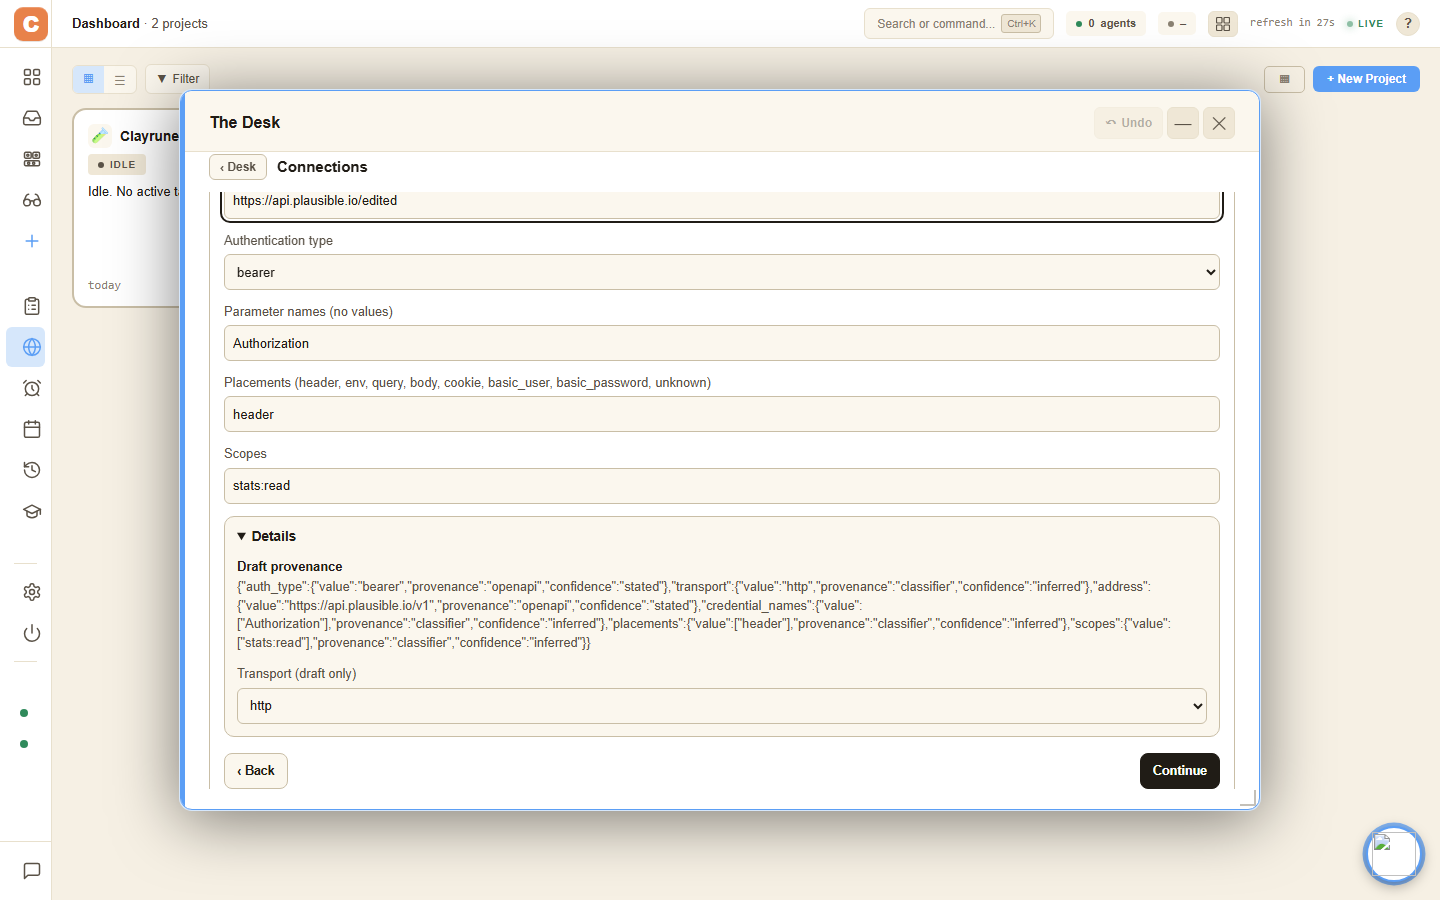
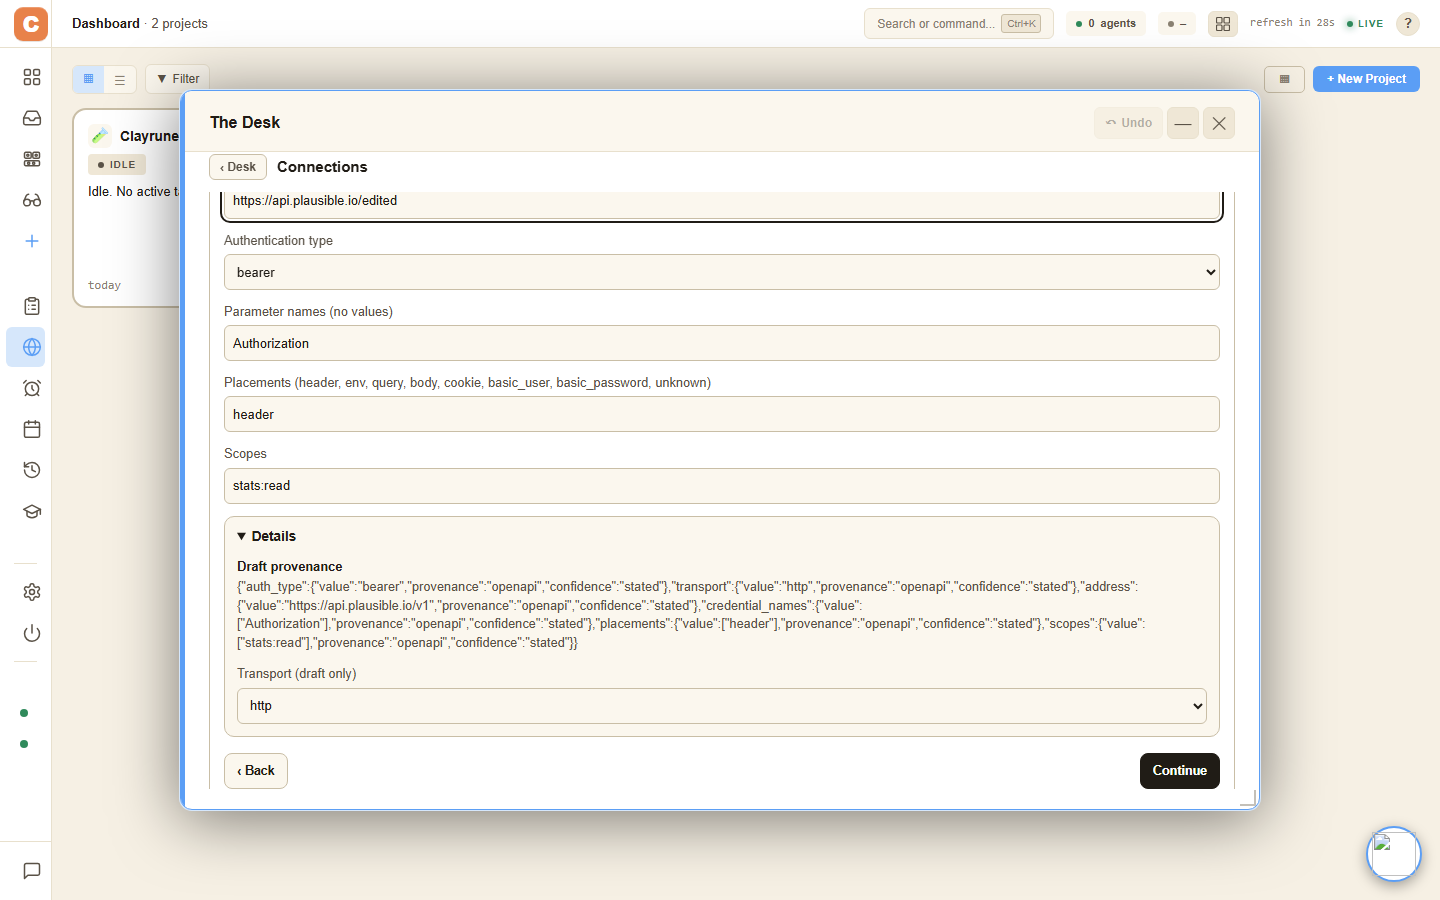
fix(desk): preserve detected reference field provenance

Changed region(s): [[0.2812, 0.6222, 0.8125, 0.7467]]

diff --git a/static/js/desk-v1-connect-reference-step.js b/static/js/desk-v1-connect-reference-step.js
@@ -32,8 +32,9 @@ export function registerReferenceStep(W) {
   }
   function useAlternative(alt) {
     const values = alt.fields || {};
+    const origin = values.auth_type || values.url || values.command || field('unknown', 'classifier', 'uncertain');
     ['auth_type', 'transport'].forEach((k) => {
-      const f = k === 'transport' ? field(alt.transport || 'unknown', 'classifier', 'inferred') : values[k];
+      const f = k === 'transport' ? values.transport || field(alt.transport || 'unknown', origin.provenance, 'inferred') : values[k];
       if (f && ['unknown', 'http', 'stdio', 'streamable_http', 'sse', 'none', 'basic', 'bearer', 'oauth', 'api_key'].includes(f.value)) {
         P[k] = f.value; P.labels[k] = field(f.value, f.provenance, f.confidence);
       }
@@ -48,7 +49,11 @@ export function registerReferenceStep(W) {
     P.credential_names = creds.map((c) => c.name).filter(Boolean).join(' ');
     P.placements = creds.map((c) => c.placement).filter(Boolean).join(' ');
     P.scopes = (alt.scopes || []).slice(0, 20).join(' ');
-    ['credential_names', 'placements', 'scopes'].forEach((k) => { P.labels[k] = field(P[k].split(' ').filter(Boolean), 'classifier', 'inferred'); });
+    const credentialOrigin = creds.length && creds.every((c) => c.provenance === creds[0].provenance) && creds[0].provenance ? creds[0] : origin;
+    ['credential_names', 'placements', 'scopes'].forEach((k) => {
+      const source = k === 'scopes' ? origin : credentialOrigin;
+      P.labels[k] = field(P[k].split(' ').filter(Boolean), source.provenance, source.confidence || 'uncertain');
+    });
     P.rid = ''; P.view = 'parameters';
   }
   async function detect(api) {

diff --git a/docs/desk_v1/connect_flow_tickets/12-unknown-service.md b/docs/desk_v1/connect_flow_tickets/12-unknown-service.md
@@ -98,3 +98,55 @@ cleanup additions the new smoke was exercised again at both widths. The full
 23-script selection is repeated against frozen frontend files before handoff.
 Boot checkpoint: `PASS` for seven boot scenarios plus all listed guards.
 Backend basic pyright: `0 errors, 0 warnings, 0 informations`.
+
+Final frozen-file verification: **23/23 required smokes, all exit 0**. Exact
+summary lines (full logs are local test scratch, not committed):
+
+```text
+desk-v1-connect-api-step: rc=0; All connect-api-step checks passed
+desk-v1-connect-browser-permission: rc=0; ✅ PASS — browser Read permission editor.
+desk-v1-connect-custom: rc=0; all checks passed
+desk-v1-connect-discover: rc=0; all checks passed
+desk-v1-connect-flow: rc=0; all checks passed
+desk-v1-connect-held: rc=0; all checks passed
+desk-v1-connect-login-step: rc=0; All connect-login-step checks passed
+desk-v1-connect-mcp: rc=0; all checks passed
+desk-v1-connect-package-step: rc=0; all checks passed
+desk-v1-connect-permissions-step: rc=0; all passed
+desk-v1-connect-purpose: rc=0; all checks passed
+desk-v1-connect-remote-step: rc=0; all checks passed
+desk-v1-connect-remote: rc=0; all checks passed
+desk-v1-connect-signin-details: rc=0; all checks passed
+desk-v1-connect-signin-fill: rc=0; all checks passed
+desk-v1-connect-slice2: rc=0; all checks passed
+desk-v1-connect-summary-step: rc=0; All checks passed
+desk-v1-connect-unknown-step: rc=0; All connect-unknown-step checks passed
+desk-v1-connect-wizard: rc=0; All connect-wizard checks passed
+desk-v1-connections: rc=0; All checks passed.
+human-proof-guard: rc=0; ALL PASS
+boot-smoke: rc=0; ✅ PASS — 7 boot scenarios + dispatch, first-run-migration, model-picker, identity-prefill, backlog, backlog-links, memory-panel, calendar, scheduler-layout, question-repaint, floor & agent-face guards all green.
+inline-handler-scope-check: rc=0; ✅ inline-handler scope check: 134 modules clean — no inline handler references an unbridged module binding.
+```
+
+Python: **1343 passed in 311.33s (0:05:11)**, exit 0, all 28 expanded
+Connect/service paths, `-o addopts=''`, no filters. Basic pyright on all four
+touched Python modules: **0 errors, 0 warnings, 0 informations**, exit 0.
+New-module/bridge JS syntax and three document links pass. Eight screenshots
+were captured and visually inspected; layouts wrap, mobile actions stay pinned,
+and controls remain reachable at 200% text. Fixture servers provide discovery,
+detection and Save answers; no live vendor run is claimed. Final whitespace
+cleanup removes only an extra blank line in the smoke file.
+
+Branch checkpoints: 12b `6ddc49cf`, 12 UI `adef20fd`. No open product choice.
+The final reference-only correction preserves U1's supplied transport,
+credential-parameter and scope provenance instead of flattening it to
+classifier. The Save smoke asserts OpenAPI provenance at both widths. The
+final full selection ran in three disjoint groups (8 + 8 + 7), covering all
+23 paths exactly once; each group exited 0. No production/test change
+followed that run.
+Ticket 14 can wire this branch without enabling an API/PyPI executor; keep the
+new entry after wizard/pick/permissions/package/remote/summary scripts. The
+reference branch owns its own Review/Result and uses 12b's existing Connect Save.
+The shared MCP chooser sets `mcp/custom-npm` or `mcp/custom-remote`; known
+service account selection remains ticket 14's responsibility. No merge, push,
+restart, wizard activation or live integration was performed.
